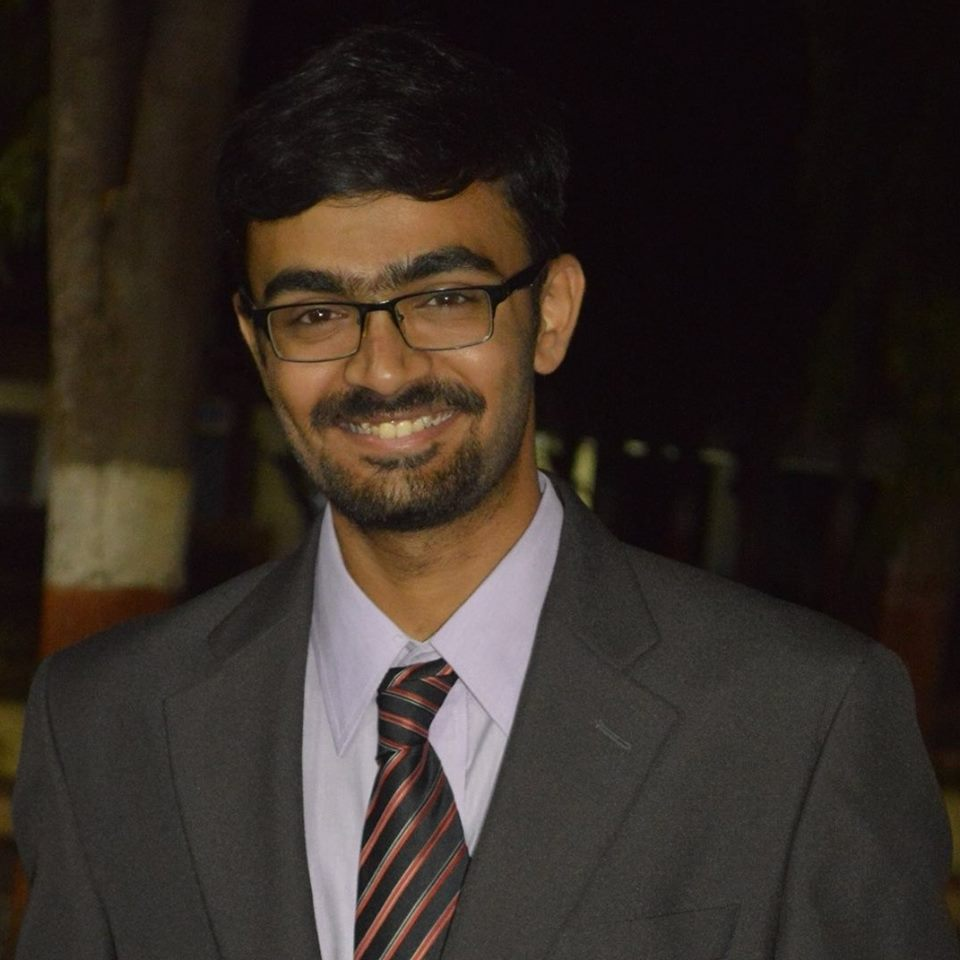
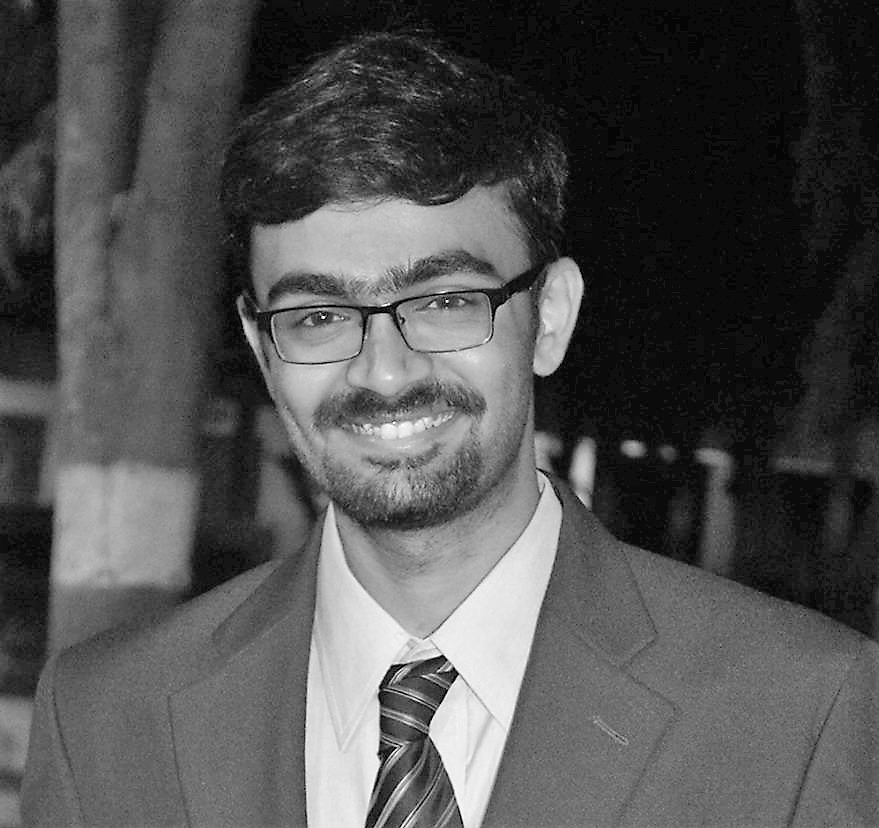
gray-ed the page out

diff --git a/index.html b/index.html
@@ -8,11 +8,14 @@
 <link rel="stylesheet" href="https://cdnjs.cloudflare.com/ajax/libs/font-awesome/4.7.0/css/font-awesome.min.css">
 <style>
 body,h1,h2,h3,h4,h5,h6 {font-family: "Raleway", sans-serif}
+.w3-text-black {color: #333 !important}
+.text-info {color :#777 !important}
+.position-info {color :#666 !important}
 </style>
-<body class="w3-light-grey w3-content" style="max-width:1600px">
+<body class="w3-white w3-content" style="max-width:1600px">
 
 <!-- Sidebar/menu -->
-<nav class="w3-sidebar w3-collapse w3-white w3-animate-left" style="z-index:3;width:300px;" id="mySidebar"><br>
+<nav class="w3-sidebar w3-collapse w3-light-grey w3-animate-left" style="z-index:3;width:300px;" id="mySidebar"><br>
   <div class="w3-container">
     <a href="#" onclick="w3_close()" class="w3-hide-large w3-right w3-jumbo w3-padding w3-hover-grey" title="close menu">
       <i class="fa fa-remove"></i>
@@ -47,19 +50,22 @@ body,h1,h2,h3,h4,h5,h6 {font-family: "Raleway", sans-serif}
 
 <!-- Introduction -->
   <div class="w3-container" id="aboutme" >    
-  <h1 class="w3-xxlarge w3-text-red"><b>About me</b></h1>    	
+  <h1 class="w3-xxlarge w3-text-black"><b>About me</b></h1>    	
+	<div class = 'text-info'>
     <p>I am a graduate student in the Computer Engineering Department at the Virginia Tech, Blacksburg.
 	<br><br>
 	Currently, I am working with Prof Sujith on analysis of memory formation using neural networks. Under his guidance I am exploring the effects of REM sleep in memory formation. I am interested in the field of Machine Learning, Data Science and Robotics. 
 	<br><br>
 	Prior to that I was working at Mercedes Benz R/& D, India on the Diagnostics software for Daimler Trucks.</p>
+	</div>
 	
   </div>
   
    <!-- Work Ex. -->
-  <div class="w3-container" id="workexperience" >
-    <h1 class="w3-xxlarge w3-text-red"><b>Work Experience.</b></h1>    
+  <div class="w3-container" id="workexperience" ><div class='text-info'>
+    <h1 class="w3-xxlarge w3-text-black"><b>Work Experience.</b></h1>    
 		<div class="w3-container" style="margin:0 -30px">
+			
 			<div class="w3-container w3-hover-shadow w3-round-large w3-card-5">
 				<a href="notFound.html">
 					<h2 class="w3-xlarge w3-text-dark-grey">Neural Dyanamics Lab, Virginia Tech<span style="float: right; font-size: 12px;">Novemeber 2017 - Now</span></h2>
@@ -67,7 +73,8 @@ body,h1,h2,h3,h4,h5,h6 {font-family: "Raleway", sans-serif}
 				<p class="w3-opacity">Graduate Student Researcher</p>
 				<p class="description">I am working on developing a neural network for modelling the brain activity. </p>
 				<p>I am also working on interfacing a BMI(Brain Machine Interface) to study the effects of sleep on memory formation.</p>
-			</div>
+				</div>
+			
 		</div>
 		
 		<div class="w3-container" style="margin:0 -30px">
@@ -110,13 +117,15 @@ body,h1,h2,h3,h4,h5,h6 {font-family: "Raleway", sans-serif}
 				<p>My team worked on designing a wireless video doorbell service for accessible and portable use. I worked on Python based client-server interaction for a storing and managing the video stream data based on the doorbell input. The accessiblity was increased by developement of a Web App and an Android App. </p>
 			</div>
 		</div>
+		</div>
   </div>
   
   <!--Projects -->
   
   
   <div class="w3-container" id="projects" >
-    <h1 class="w3-xxlarge w3-text-red"><b>Projects</b></h1>   
+    <h1 class="w3-xxlarge w3-text-black"><b>Projects</b></h1>   
+	<div class = 'text-info'>
 	
 	<!--FINGERSPELLING -->
 	<div class="w3-container" style="margin:0 -30px">
@@ -254,10 +263,11 @@ body,h1,h2,h3,h4,h5,h6 {font-family: "Raleway", sans-serif}
 			</div>			
 		</div>
 	</div>
+	</div>
   </div>
  <!-- Publications -->
-  <div class="w3-container" id="publish" >
-  <h1 class="w3-xxlarge w3-text-red"><b>Publications</b></h1>
+  <div class="w3-container text-info" id="publish" >
+  <h1 class="w3-xxlarge w3-text-black"><b>Publications</b></h1>
     <div class="w3-container" style="margin:0 -30px">
 		<div class="w3-container w3-hover-shadow w3-round-large w3-card-5">
 			<a href="http://ieeexplore.ieee.org/document/7857461/">
@@ -268,8 +278,8 @@ body,h1,h2,h3,h4,h5,h6 {font-family: "Raleway", sans-serif}
 	</div>
   </div>
   <!-- Currently Reading -->
-  <div class="w3-container" id="reading" >
-    <h1 class="w3-xxlarge w3-text-red"><b>Currently Reading</b></h1>
+  <div class="w3-container text-info" id="reading" >
+    <h1 class="w3-xxlarge w3-text-black"><b>Currently Reading</b></h1>
     I am reading <a href = 'https://www.goodreads.com/book/show/29947651-endurance'>Endurance: A Year in Space, A Lifetime of Discovery </a> by astronaut Scott Kelly
 	
 	<br><br>
@@ -277,8 +287,8 @@ body,h1,h2,h3,h4,h5,h6 {font-family: "Raleway", sans-serif}
   </div>
  
   <!-- Contact -->
-  <div class="w3-container" id="contact" >
-    <h1 class="w3-xxlarge w3-text-red"><b>Contact.</b></h1>
+  <div class="w3-container text-info" id="contact" >
+    <h1 class="w3-xxlarge w3-text-black"><b>Contact.</b></h1>
     <form action="https://formspree.io/abhinuv@vt.edu" target="_blank" method = "POST">
       <div class="w3-section">
 		<div class="w3-half">
@@ -301,7 +311,7 @@ body,h1,h2,h3,h4,h5,h6 {font-family: "Raleway", sans-serif}
 			</div>
 			<div class="w3-half">
 			<label>.</label>	
-			<button type="submit" class="w3-circle w3-block w3-padding-large w3-red"><i class='fa fa-send'></i></button>
+			<button type="submit" class="w3-circle w3-block w3-padding-large w3-grey"><i class='fa fa-send'></i></button>
 			</div>
 		</div>		
       </div>      
